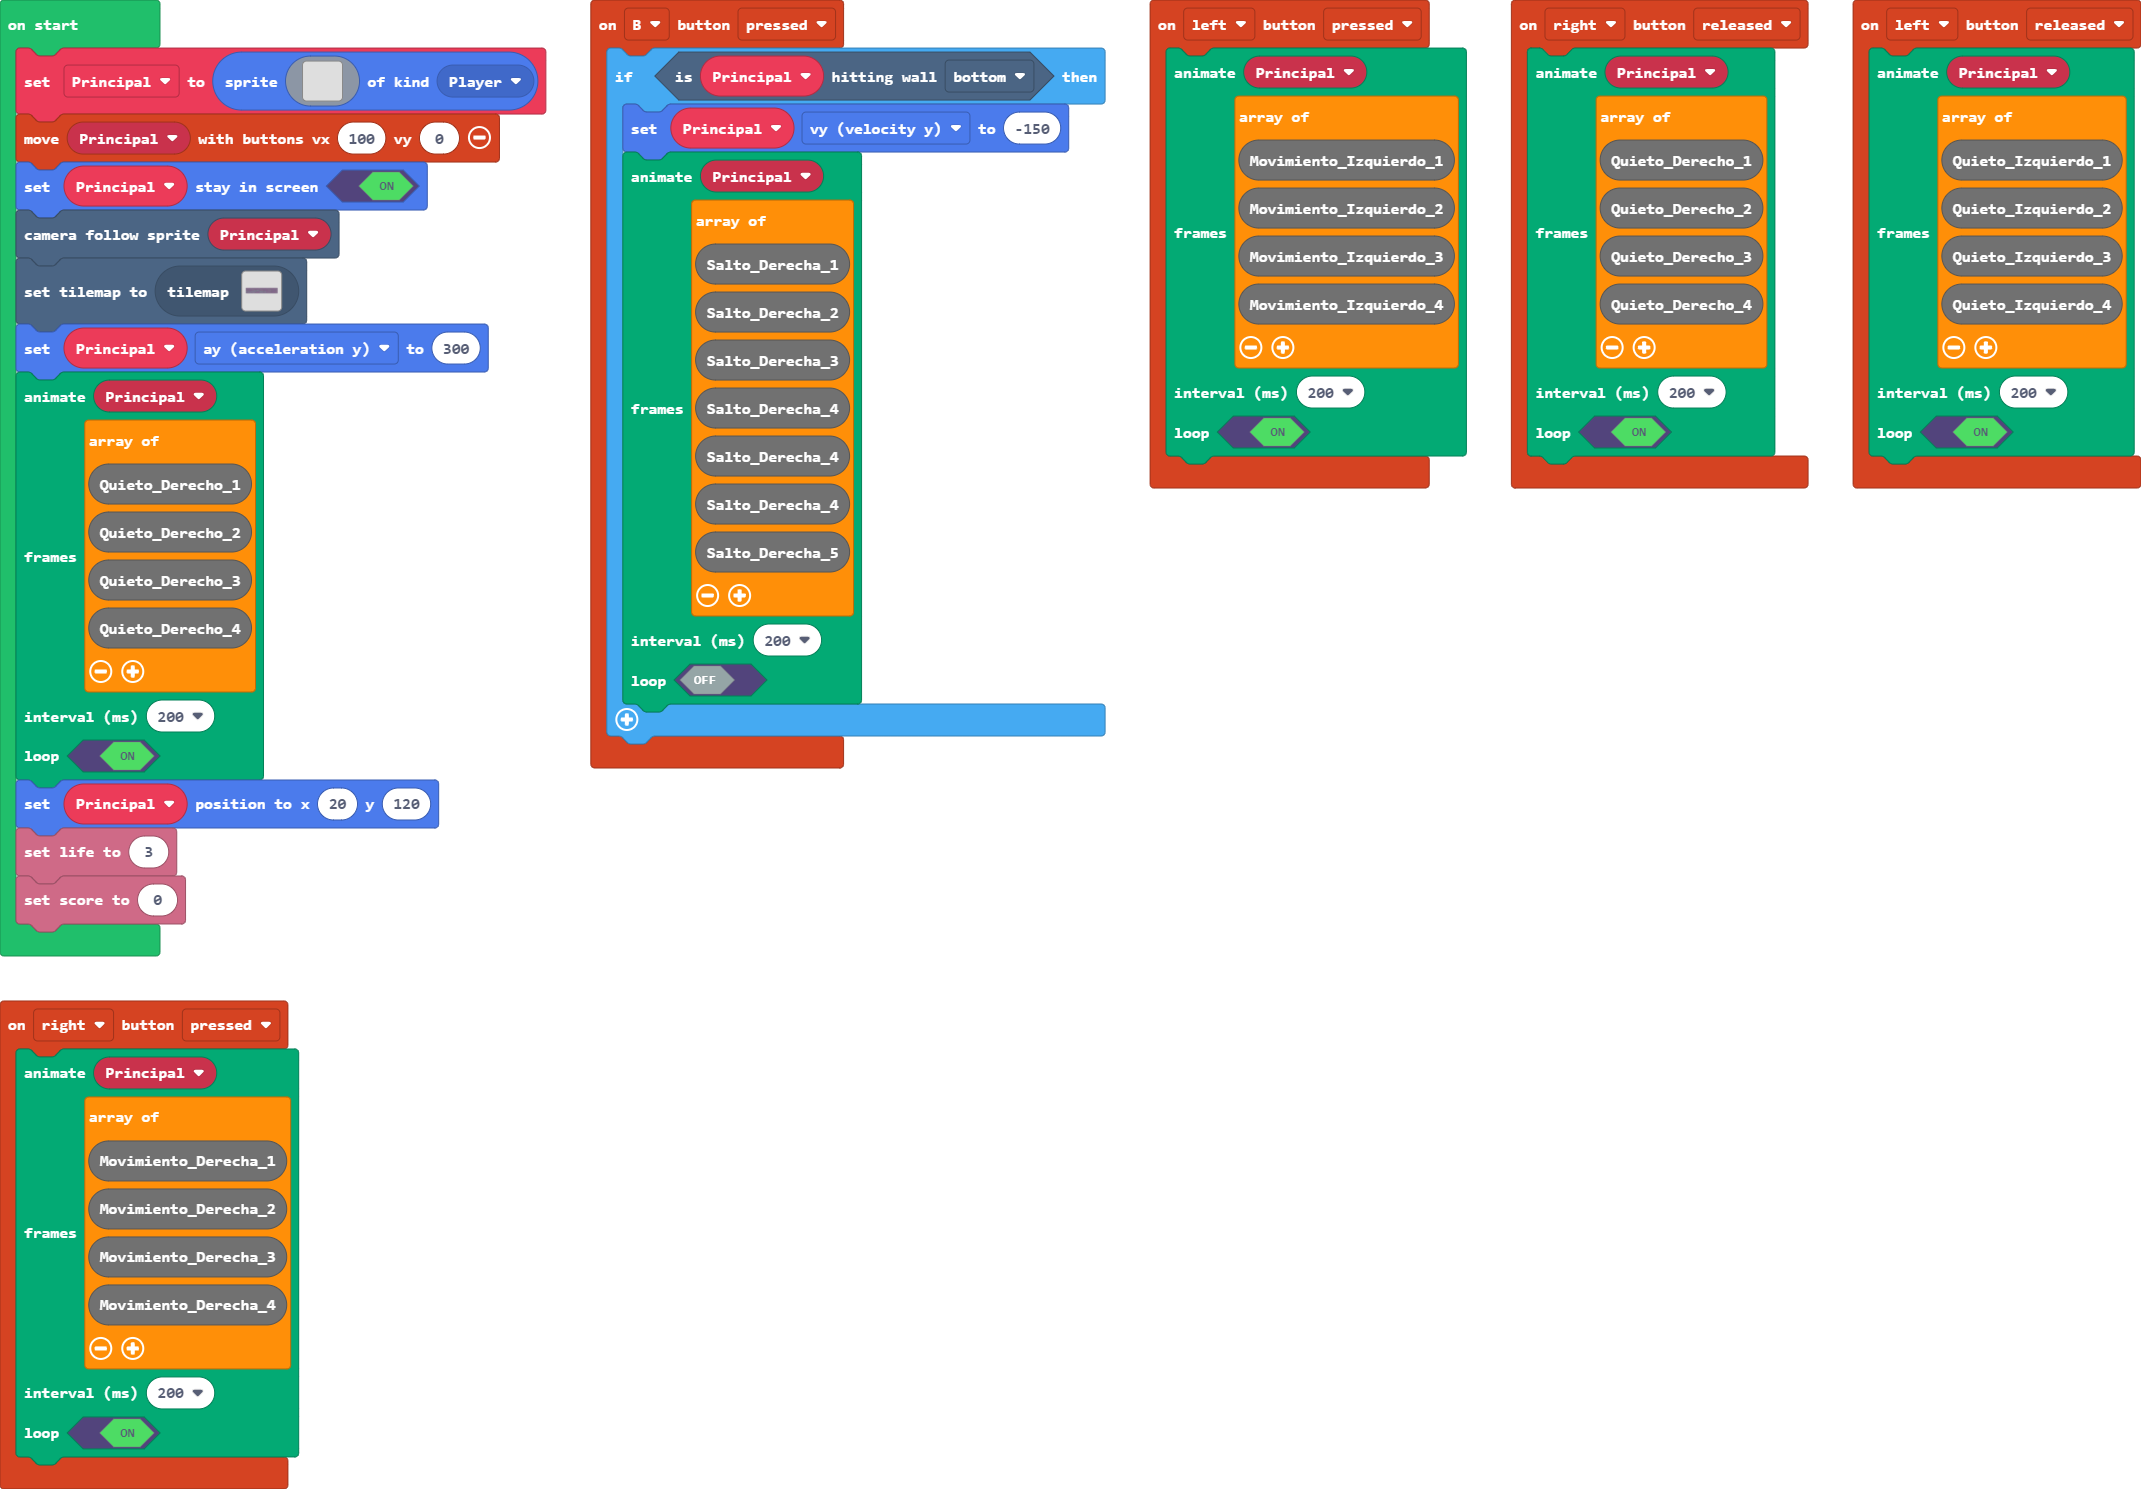
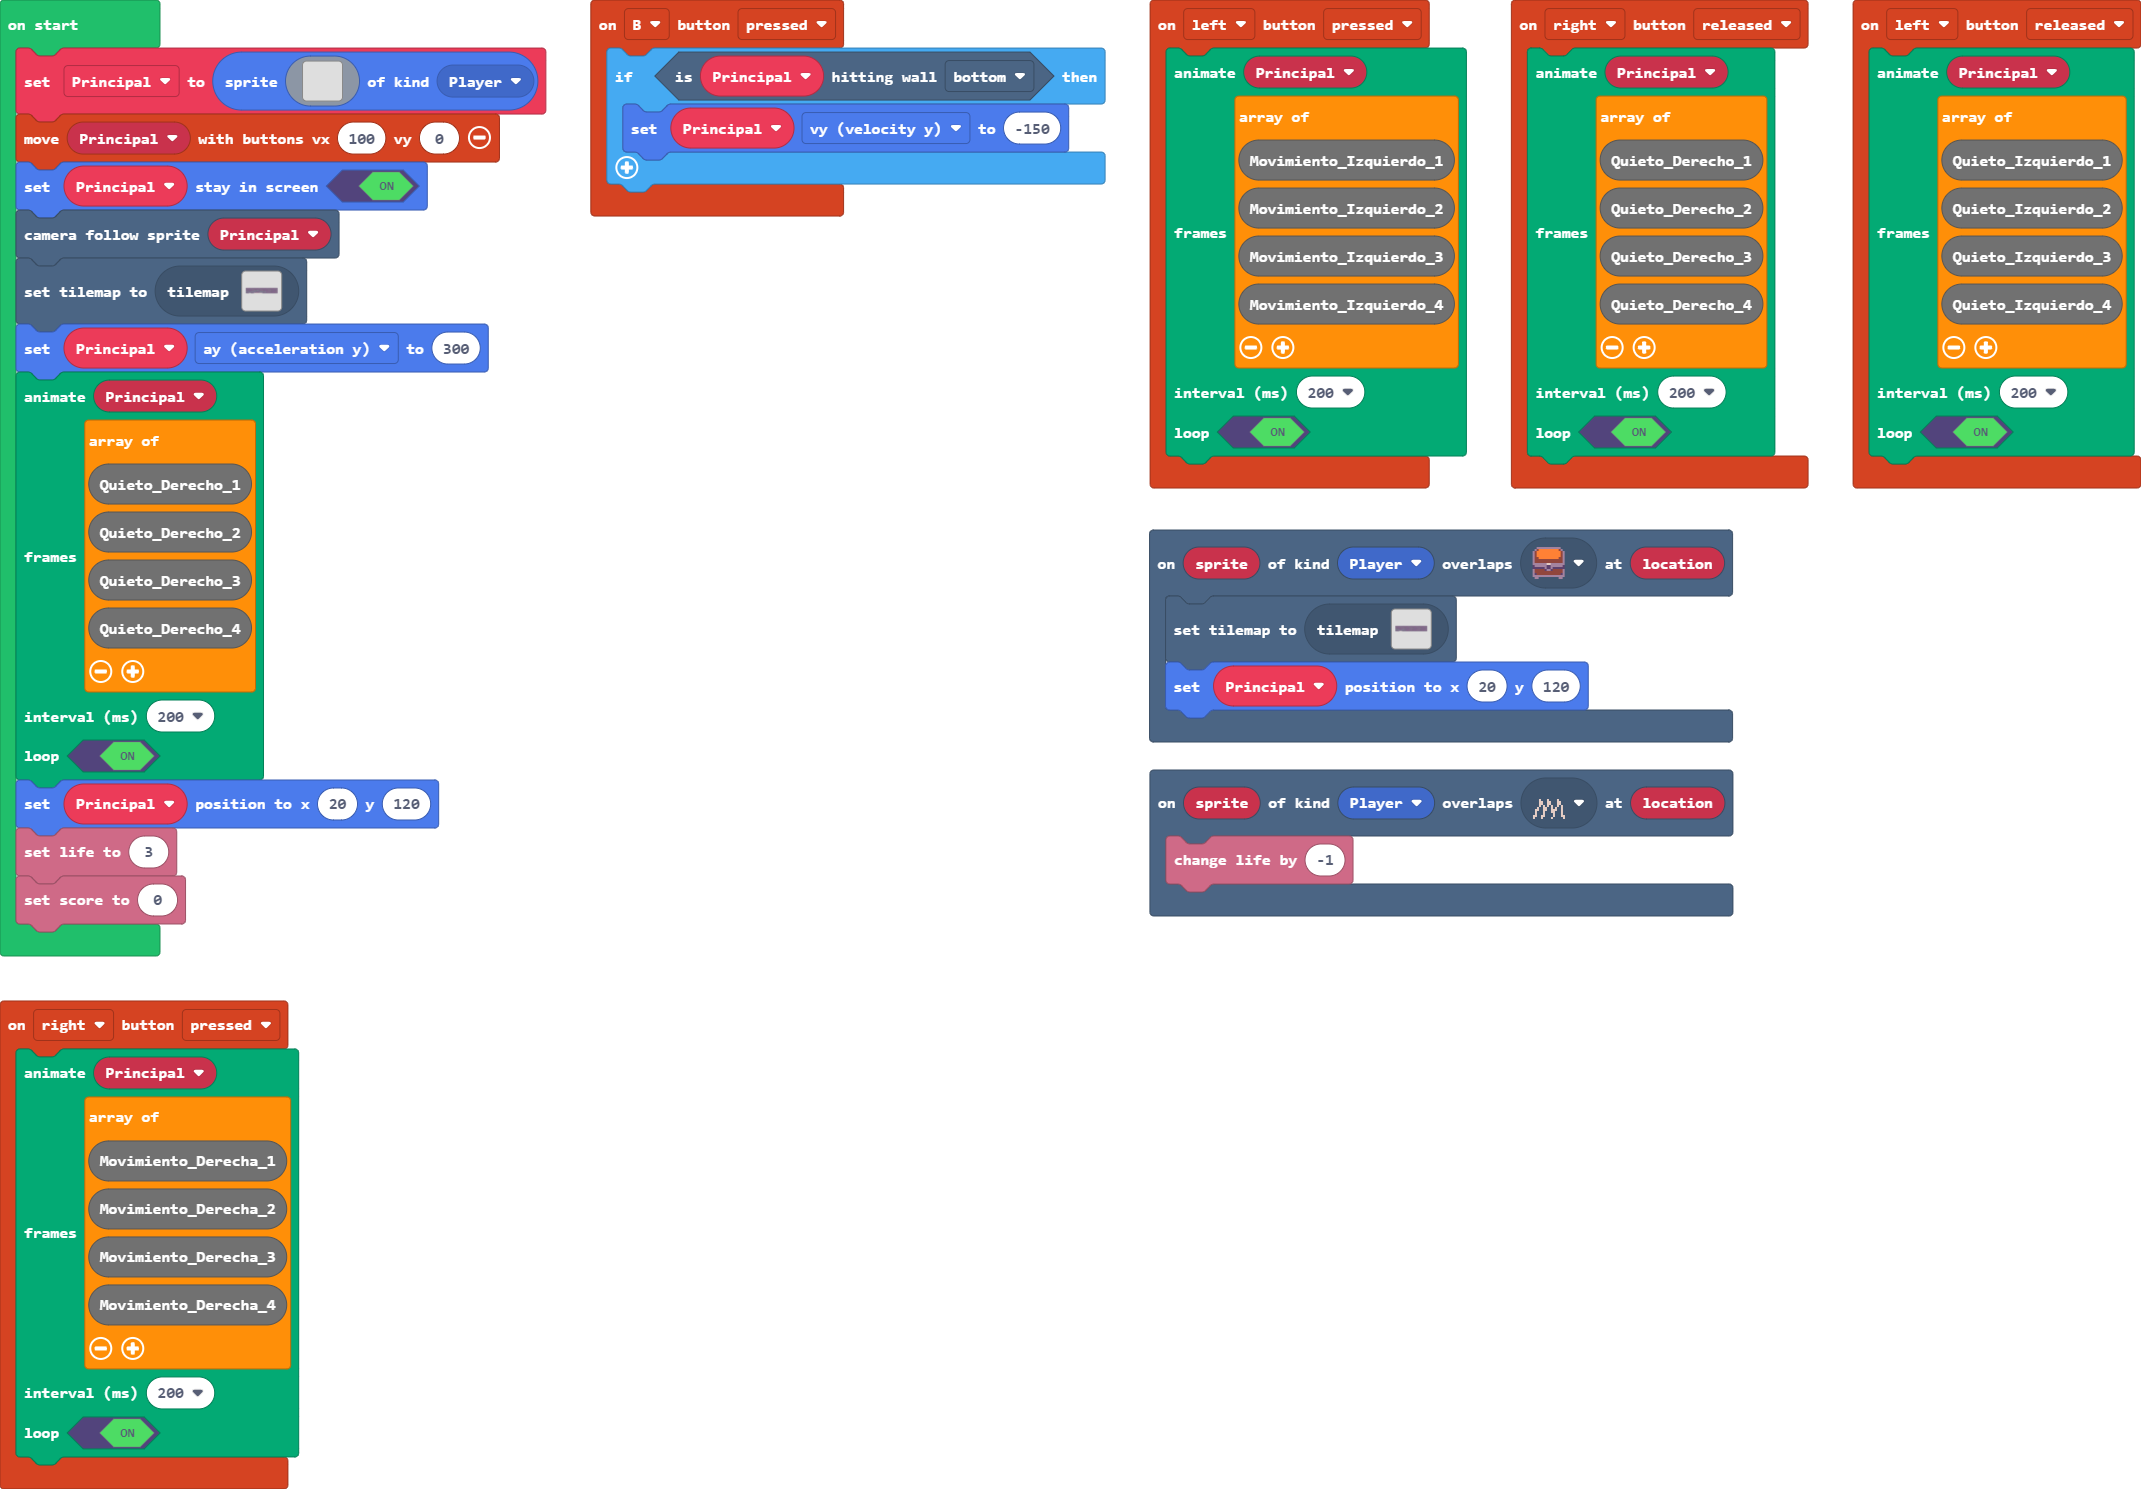
Update main.blocks, main.ts, tilemap.g.jres, tilemap.g.ts

Changed region(s): [[0.2774, 0.0927, 0.8323, 0.6179]]

diff --git a/tilemap.g.ts b/tilemap.g.ts
@@ -2,6 +2,8 @@
 namespace myTiles {
     //% fixedInstance jres blockIdentity=images._tile
     export const transparency16 = image.ofBuffer(hex``);
+    //% fixedInstance jres blockIdentity=images._tile
+    export const tile1 = image.ofBuffer(hex``);
 
     helpers._registerFactory("tilemap", function(name: string) {
         switch(helpers.stringTrim(name)) {
@@ -101,7 +103,7 @@ namespace myTiles {
 . . . . . . . . . . . . . . . . 
 `, [myTiles.transparency16], TileScale.Sixteen);
             case "Nivel 1":
[2 lines of base64/hex data omitted]
 ....................................................................................................
 ....................................................................................................
 ....................................................................................................
@@ -118,7 +120,64 @@ namespace myTiles {
 ..........2....2.........2..........................2.........2.....................................
 ..........2....2.........2..........................2.........2.....................................
 ..........2....2.........2..........................2.........2.....................................
-`, [myTiles.transparency16,sprites.dungeon.greenOuterNorthWest,sprites.dungeon.greenOuterWest0,sprites.dungeon.greenOuterNorth0,sprites.dungeon.greenOuterNorthEast,sprites.dungeon.greenOuterEast0,sprites.dungeon.greenOuterSouthEast,sprites.dungeon.greenOuterSouthWest,sprites.dungeon.greenOuterSouth0,sprites.dungeon.darkGroundCenter,sprites.dungeon.chestClosed], TileScale.Sixteen);
+`, [myTiles.transparency16,sprites.dungeon.greenOuterNorthWest,sprites.dungeon.greenOuterWest0,sprites.dungeon.greenOuterNorth0,sprites.dungeon.greenOuterNorthEast,sprites.dungeon.greenOuterEast0,sprites.dungeon.greenOuterSouthEast,sprites.dungeon.greenOuterSouthWest,sprites.dungeon.greenOuterSouth0,sprites.dungeon.darkGroundCenter,sprites.dungeon.chestClosed,myTiles.tile1], TileScale.Sixteen);
+            case "level7":
+            case "level7":return tiles.createTilemap(hex`1000100000000000000000000000000000000000000000000000000000000000000000000000000000000000000000000000000000000000000000000000000000000000000000000000000000000000000000000000000000000000000000000000000000000000000000000000000000000000000000000000000000000000000000000000000000000000000000000000000000000000000000000000000000000000000000000000000000000000000000000000000000000000000000000000000000000000000000000000000000000000000000000000000000000000000000000000000000000000000000000000000000000000000000000000000000000000`, img`
+. . . . . . . . . . . . . . . . 
+. . . . . . . . . . . . . . . . 
+. . . . . . . . . . . . . . . . 
+. . . . . . . . . . . . . . . . 
+. . . . . . . . . . . . . . . . 
+. . . . . . . . . . . . . . . . 
+. . . . . . . . . . . . . . . . 
+. . . . . . . . . . . . . . . . 
+. . . . . . . . . . . . . . . . 
+. . . . . . . . . . . . . . . . 
+. . . . . . . . . . . . . . . . 
+. . . . . . . . . . . . . . . . 
+. . . . . . . . . . . . . . . . 
+. . . . . . . . . . . . . . . . 
+. . . . . . . . . . . . . . . . 
+. . . . . . . . . . . . . . . . 
+`, [myTiles.transparency16], TileScale.Sixteen);
+            case "level9":
+            case "level9":return tiles.createTilemap(hex`1000100000000000000000000000000000000000000000000000000000000000000000000000000000000000000000000000000000000000000000000000000000000000000000000000000000000000000000000000000000000000000000000000000000000000000000000000000000000000000000000000000000000000000000000000000000000000000000000000000000000000000000000000000000000000000000000000000000000000000000000000000000000000000000000000000000000000000000000000000000000000000000000000000000000000000000000000000000000000000000000000000000000000000000000000000000000000`, img`
+. . . . . . . . . . . . . . . . 
+. . . . . . . . . . . . . . . . 
+. . . . . . . . . . . . . . . . 
+. . . . . . . . . . . . . . . . 
+. . . . . . . . . . . . . . . . 
+. . . . . . . . . . . . . . . . 
+. . . . . . . . . . . . . . . . 
+. . . . . . . . . . . . . . . . 
+. . . . . . . . . . . . . . . . 
+. . . . . . . . . . . . . . . . 
+. . . . . . . . . . . . . . . . 
+. . . . . . . . . . . . . . . . 
+. . . . . . . . . . . . . . . . 
+. . . . . . . . . . . . . . . . 
+. . . . . . . . . . . . . . . . 
+. . . . . . . . . . . . . . . . 
+`, [myTiles.transparency16], TileScale.Sixteen);
+            case "level8":
+            case "level8":return tiles.createTilemap(hex`6400100001010101010101010101010101010101010101010101010101010101010101010101010101010101010101010101010101010101010101010101010101010101010101010101010101010101010101010101010101010101010101010101010101010101010101010101010101010101010101010101010101010101010101010101010101010101010101010101010101010101010101010101010101010101010101010101010101010101010101010101010101010101010101010101010101010101010101010101010101010101010101010101010101010101010101010101010101010101010101010101010101010101010101010101010101010101010101010101010101010101010101010101010101010101010101010101010101010101010101010101010101010101010101010101010101010101010101010101010101010101010101010101010101010101010101010101010101010101010101010101010101010101010101010101010101010101010101010101010101010101010101010101010101010101010101010101010101010101010101010101010101010101010101010101010101010101010101010101010101010101010101010101010101010101010101010101010101010101010101010101010101010101010101010101010101010101010101010101010101010101010101010101010101010101010101010101010101010101010101010101010101010101010101010101010101010101010101010101010101010101010101010101010101010101010101010101010101010101010101010101010101010101010101010101010101010101010101010101010101010101010101010101010101010101010101010101010101010101010101010101010101010101010101010101010101010101010101010101010101010101010101010101010101010101010101010101010101010101010101010101010101010101010101010101010101010101010101010101010101010101010101010101010101010101010101010101010101010101010101010101010101010101010101010101010101010101010101010101010101010101010101010101010101010101010101010101010101010101010101010101010101010101010101010101010101010101010101010101010101010101010101010101010101010101010101010101010101010101010101010101010101010101010101010101010101010101010101010101010101010101010101010101010101010101010101010101010101010101010101010101010101010101010101010101010101010101010101010101010101010101010101010101010101010101010101010101010101010101010101010101010101010101010101010101010101010101010101010101010101010101010101010101010101010101010101010101010101010101010101010101010101010101010101010101010101010101010101010203030303030303030303030401010101010101010203030303030303030401010101010101010101010101010101010101010101010101010101010101010101010101010101010101010101010101010101010101010101010101010101010101010106010101010101010101010105010101010101010106010101010101010105010101010101010101010101010101010101010101010101010101010101010101010101010101010101010101010101010101010101010101010101010101010101010101060101010101010101010101050101010101010101060101010101010101050101010101010101010101010101010101010101010101010101010101010101010101010101010101010101010101010101010101010101010101010101010101010101010601010101010101010101010501010101010101010601010101010101010501010101010101010101010101010101010101010101010101010101010101010101010101010101010101010101010101010101010101010101010101010101010101010106010101010101010101010105070707070707070706010101010101010105010101010101010101010101010101010101010101010101010101010101010101010101010101010101010101010101010101010101010101010101010101010101010101`, img`
+....................................................................................................
+....................................................................................................
+....................................................................................................
+....................................................................................................
+....................................................................................................
+....................................................................................................
+....................................................................................................
+....................................................................................................
+....................................................................................................
+....................................................................................................
+....................................................................................................
+2222222222222........2222222222.....................................................................
+............2........2........2.....................................................................
+............2........2........2.....................................................................
+............2........2........2.....................................................................
+............2........2........22....................................................................
+`, [myTiles.transparency16,sprites.dungeon.darkGroundCenter,sprites.dungeon.greenOuterNorthWest,sprites.dungeon.greenOuterNorth0,sprites.dungeon.greenOuterNorthEast,sprites.dungeon.greenOuterEast0,sprites.dungeon.greenOuterWest1,myTiles.tile1], TileScale.Sixteen);
         }
         return null;
     })
@@ -126,6 +185,8 @@ namespace myTiles {
     helpers._registerFactory("tile", function(name: string) {
         switch(helpers.stringTrim(name)) {
             case "transparency16":return transparency16;
+            case "myTile":
+            case "tile1":return tile1;
         }
         return null;
     })

diff --git a/main.ts b/main.ts
@@ -17,6 +17,9 @@ controller.B.onEvent(ControllerButtonEvent.Pressed, function () {
         )
     }
 })
+scene.onOverlapTile(SpriteKind.Player, assets.tile`myTile`, function (sprite, location) {
+    info.changeLifeBy(-1)
+})
 controller.left.onEvent(ControllerButtonEvent.Pressed, function () {
     animation.runImageAnimation(
     Principal,
@@ -55,6 +58,10 @@ controller.left.onEvent(ControllerButtonEvent.Released, function () {
     200,
     true
     )
+})
+scene.onOverlapTile(SpriteKind.Player, sprites.dungeon.chestClosed, function (sprite, location) {
+    tiles.setCurrentTilemap(tilemap`level8`)
+    Principal.setPosition(20, 120)
 })
 controller.right.onEvent(ControllerButtonEvent.Pressed, function () {
     animation.runImageAnimation(
